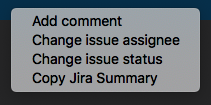
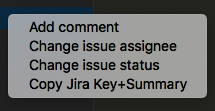
docs: update readme + add key features

diff --git a/README.md b/README.md
@@ -1,5 +1,29 @@
 # jira-plugin README
 
+## Key Features
+
+- [View Jira issues](#explorer)
+- Create new Jira issue
+- [Search/Filter Jira issues](#filters)
+  - All issues
+  - Current sprint issues
+  - Issue by id
+  - Issues filtered by status
+  - Issues filtered by status and assignee
+  - Issues filtered by summary
+  - My issues filtered by status
+  - Favourites filters
+- Open Jira issue in the browser (left click on the issue)
+- Change Jira issue status
+- Change Jira issue assignee
+- Add comment to Jira issue
+- Copy to clipboard Jira Key+Summary
+- [Set current working project](#working-project)
+- [Set current working issue](#working-issue)
+- [Trace the time spended on the current working issue](#working-issue)
+- Insert current Working Issue Key+Summary comment
+- [Jira Issue Key+Summary link to open Jira issue in the browser](#link-to-open-jira-issue-in-the-browser)
+
 ## Installation
 
 Launch VS Code Quick Open (Ctrl+P), paste the following command, and press enter.<br>
@@ -37,9 +61,13 @@ values:<br>
 1.  `always` - will increment tracking time always <br>
 1.  `vsCodeFocus` - will increment tracking time only if VS Code is focused<br>
 
-## Explorer commands
+## Explorer
 
-![Explorer commands](images/readme/explorer-commands.png)
+- In the explorer you can use all the extension command
+
+![Explorer](images/readme/explorer.gif)
+
+## Explorer commands
 
 - **Create new ticket**<br>
   With this command you can create new ticket.<br><br>
@@ -81,12 +109,6 @@ values:<br>
 - **Copy Jira Key+Summary**<br>
   With this command you can copy to clipboard Jira Key+Summary.<br><br>
 
-## Explorer
-
-- In the explorer you can use all the extension command
-
-![Explorer](images/readme/explorer.gif)
-
 ## Status bar
 
 ### Working project
@@ -104,6 +126,10 @@ values:<br>
   The extension **every 60 second** store in iternal storage the current working activity so if you close and reopen VS Code the extension retrive (if needed) the pending working issue.
 
 ![Working issue](images/readme/working-issue.gif)
+
+### Link to open Jira issue in the browser
+
+![Jira issue link](images/readme/jira-issue-link.png)
 
 ## Want to contribute?
 
